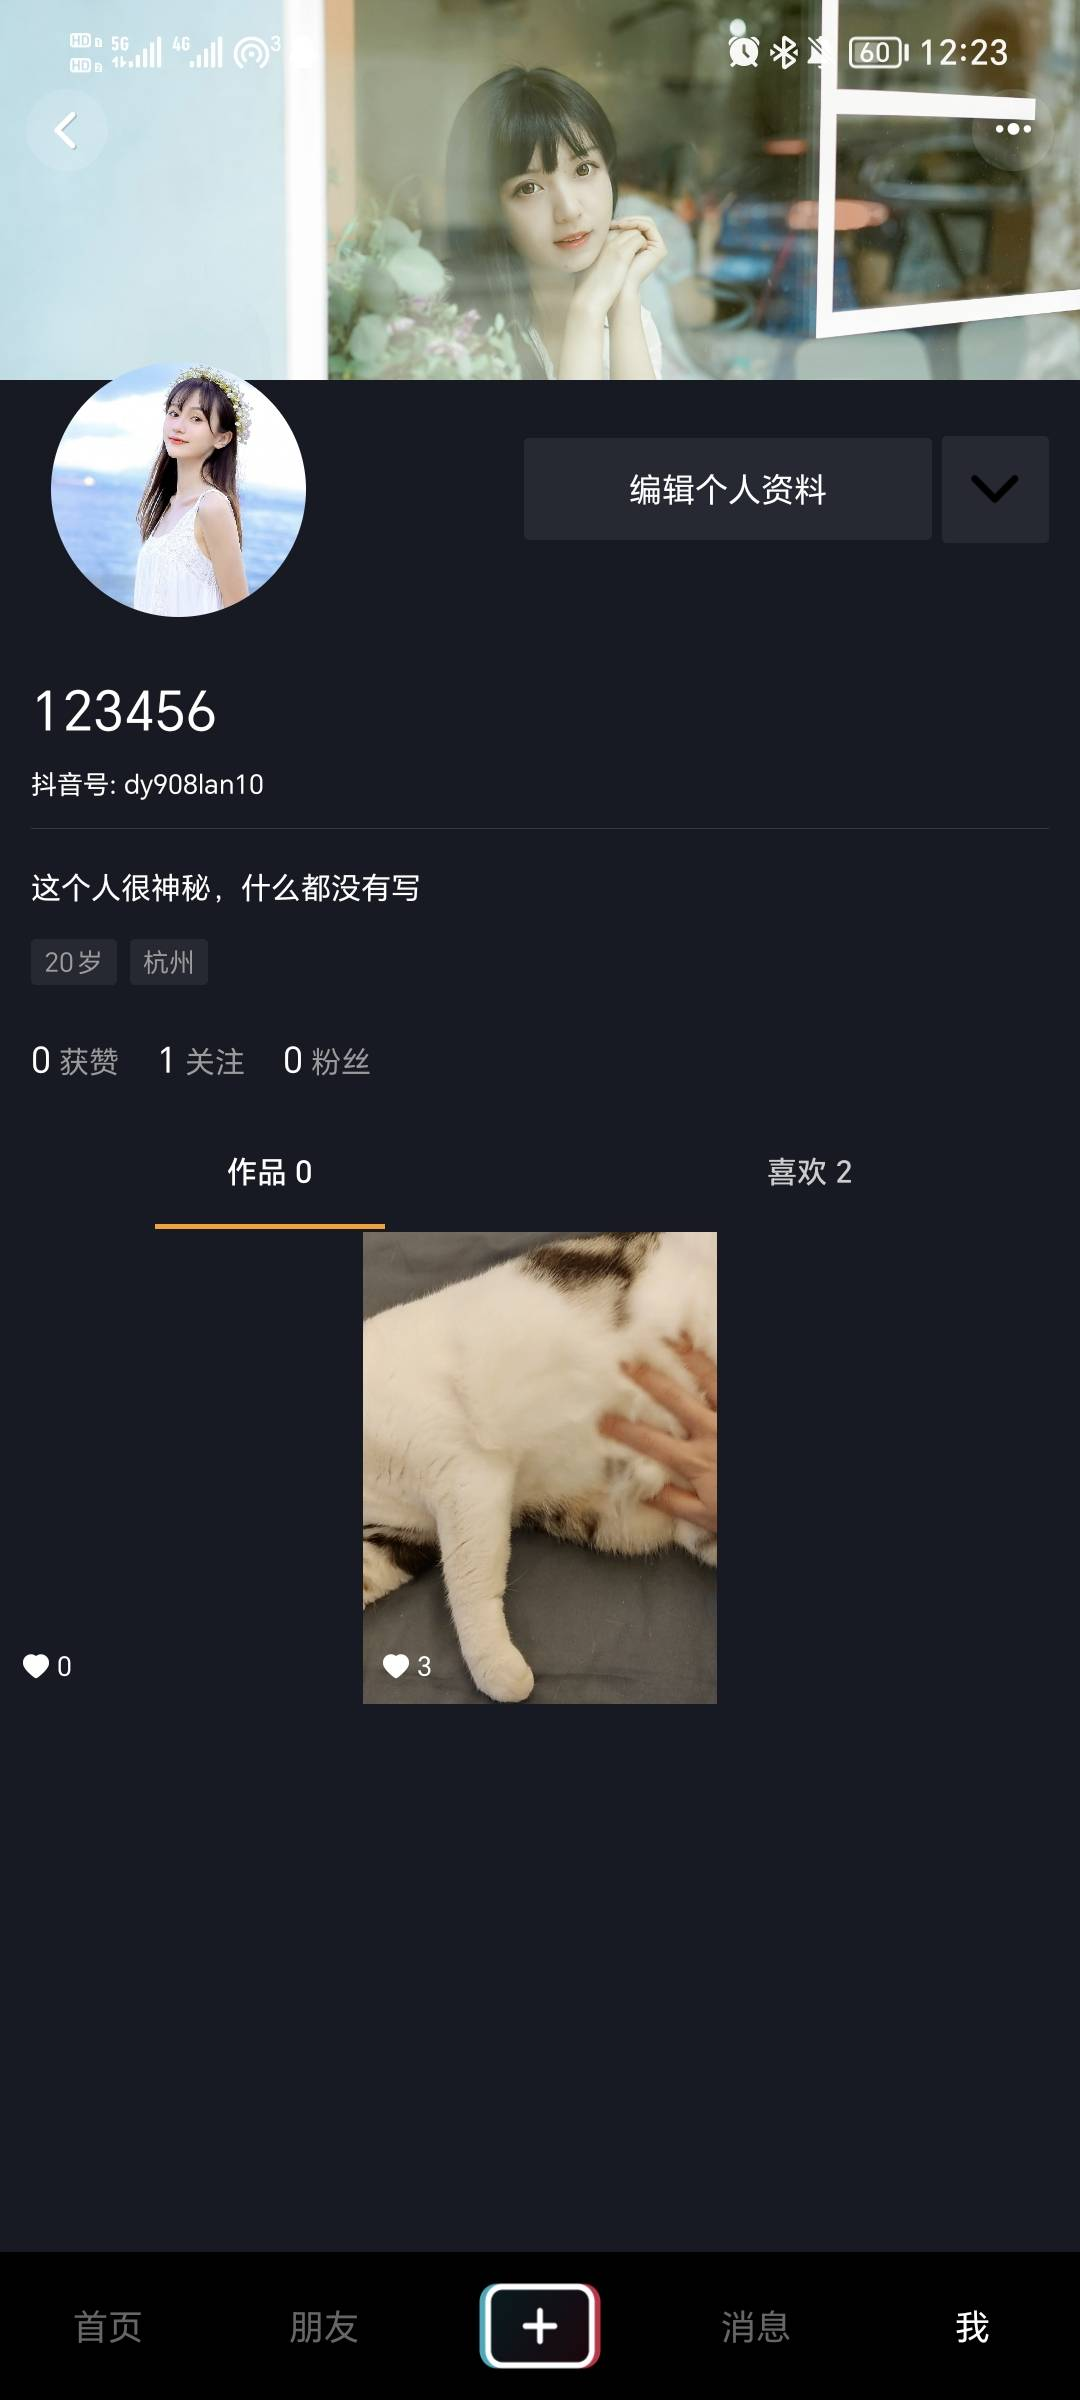
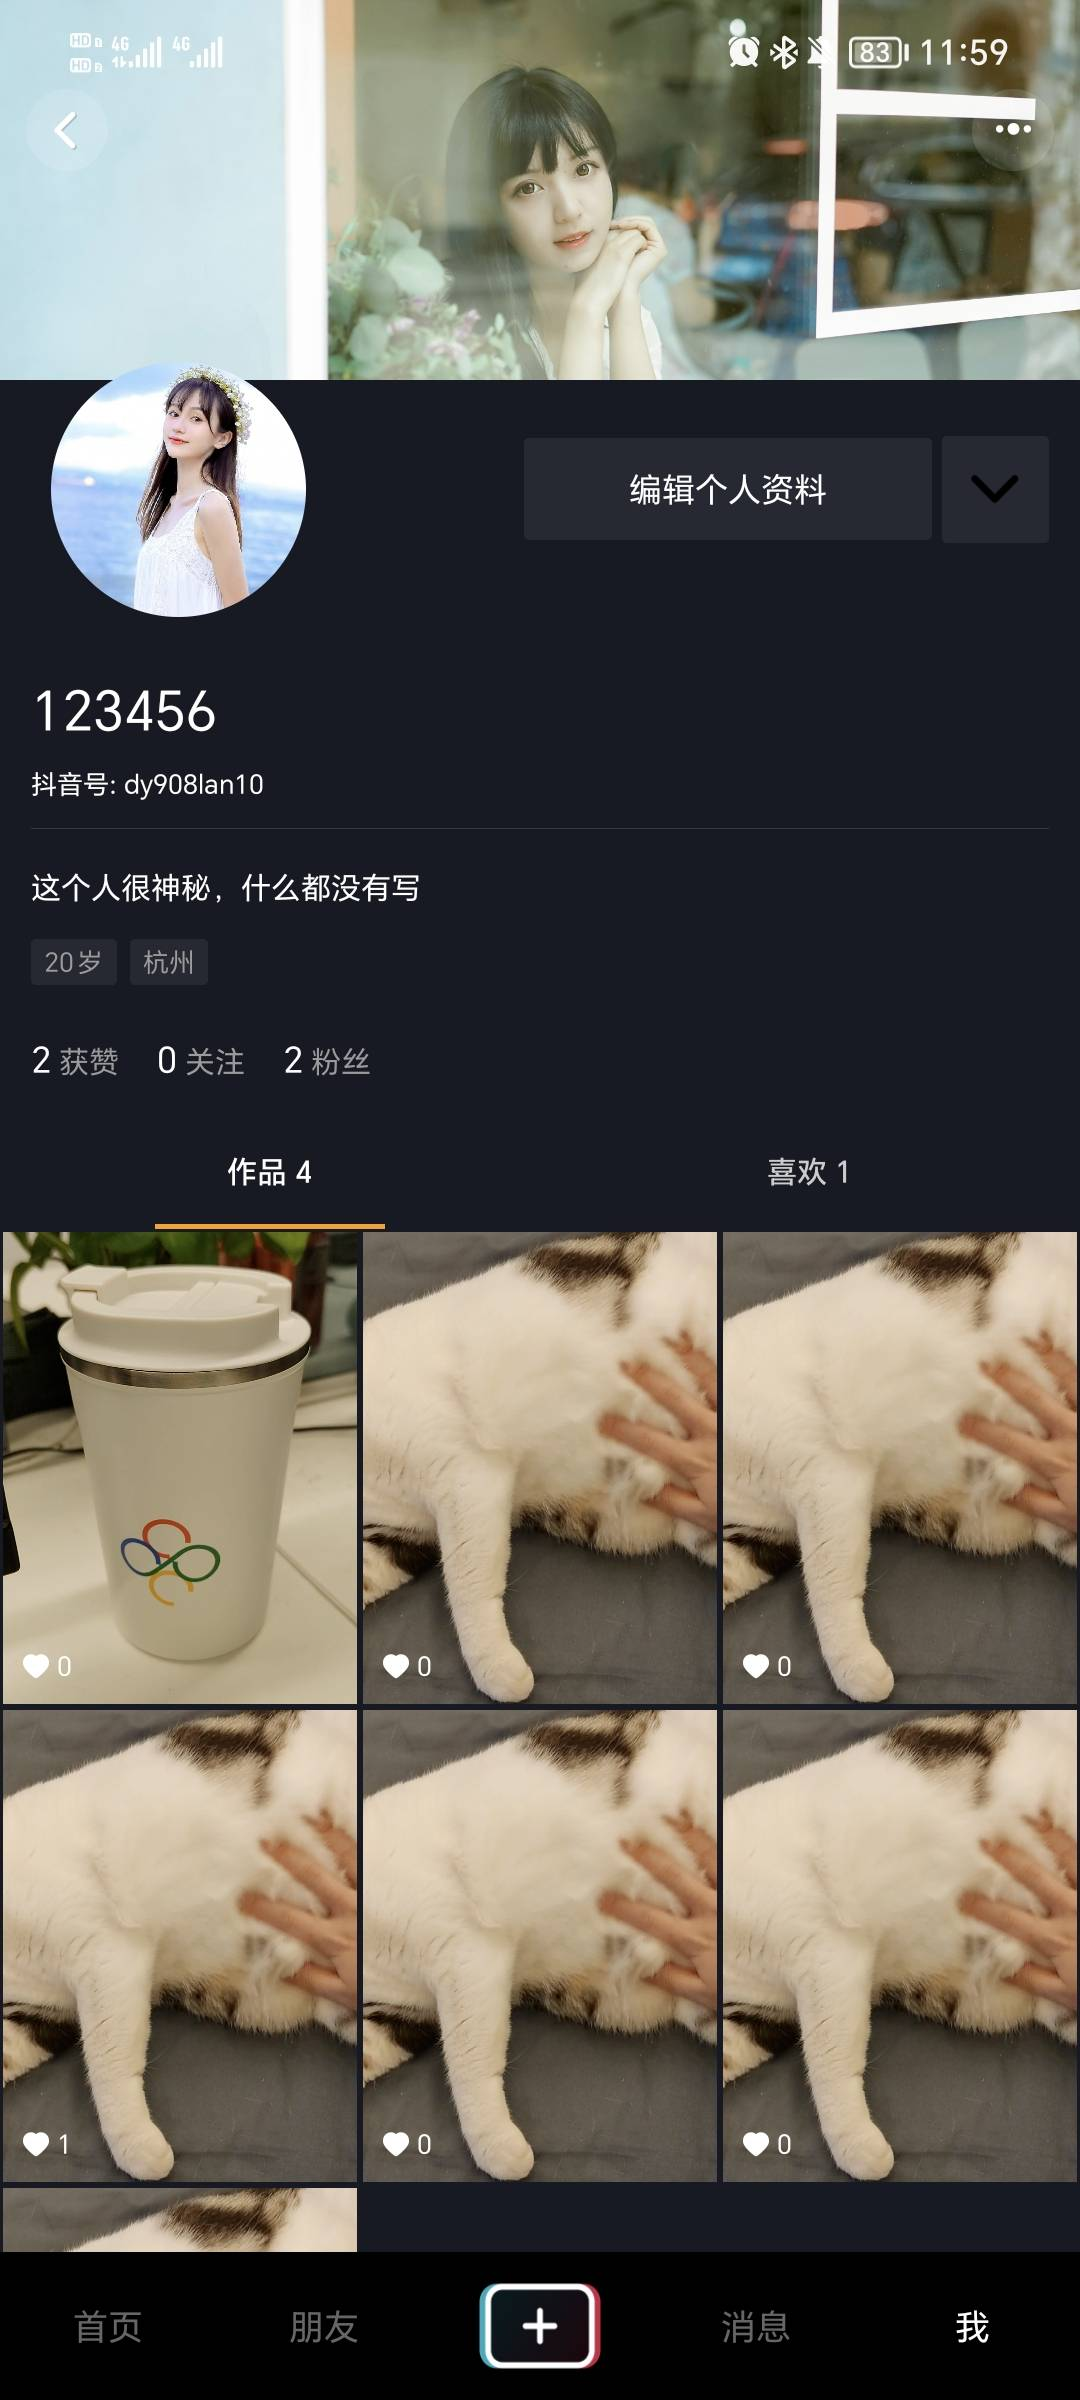
修改部分演示图片，修改演示视频链接为在线链接

diff --git a/README.md b/README.md
@@ -129,11 +129,11 @@ git clone https://github.com/jiangtianxia/simple_tiktok.git
 
 **docker相关命令说明**
 
-**一键部署：**docker-compose up -d
+**一键部署**：docker-compose up -d
 
-**查看容器状态：**docker ps
+**查看容器状态**：docker ps
 
-**查看日志：**docker logs dockerName/ID
+**查看日志**：docker logs dockerName/ID
 
 
 
@@ -155,7 +155,7 @@ git clone https://github.com/jiangtianxia/simple_tiktok.git
 
 #### 演示视频
 
-[![Watch the video](images/演示视频.jpg)](upload/%E6%BC%94%E7%A4%BA%E8%A7%86%E9%A2%91480P.mp4)
+[![Watch the video](images/演示视频.jpg)](https://www.bilibili.com/video/BV1954y1F73i)
 
 
 
